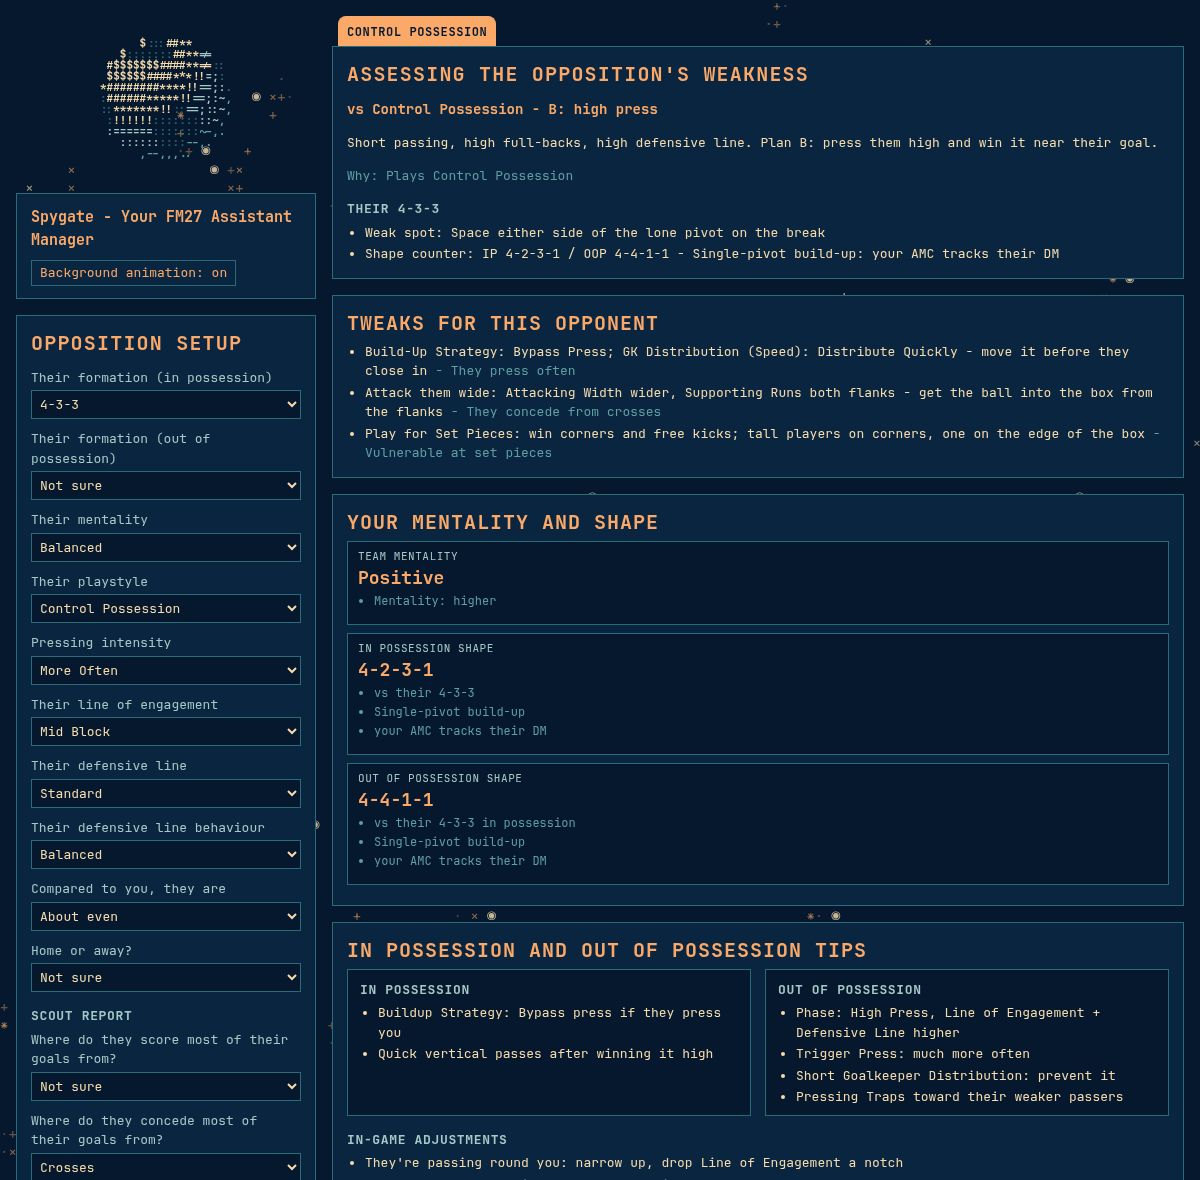
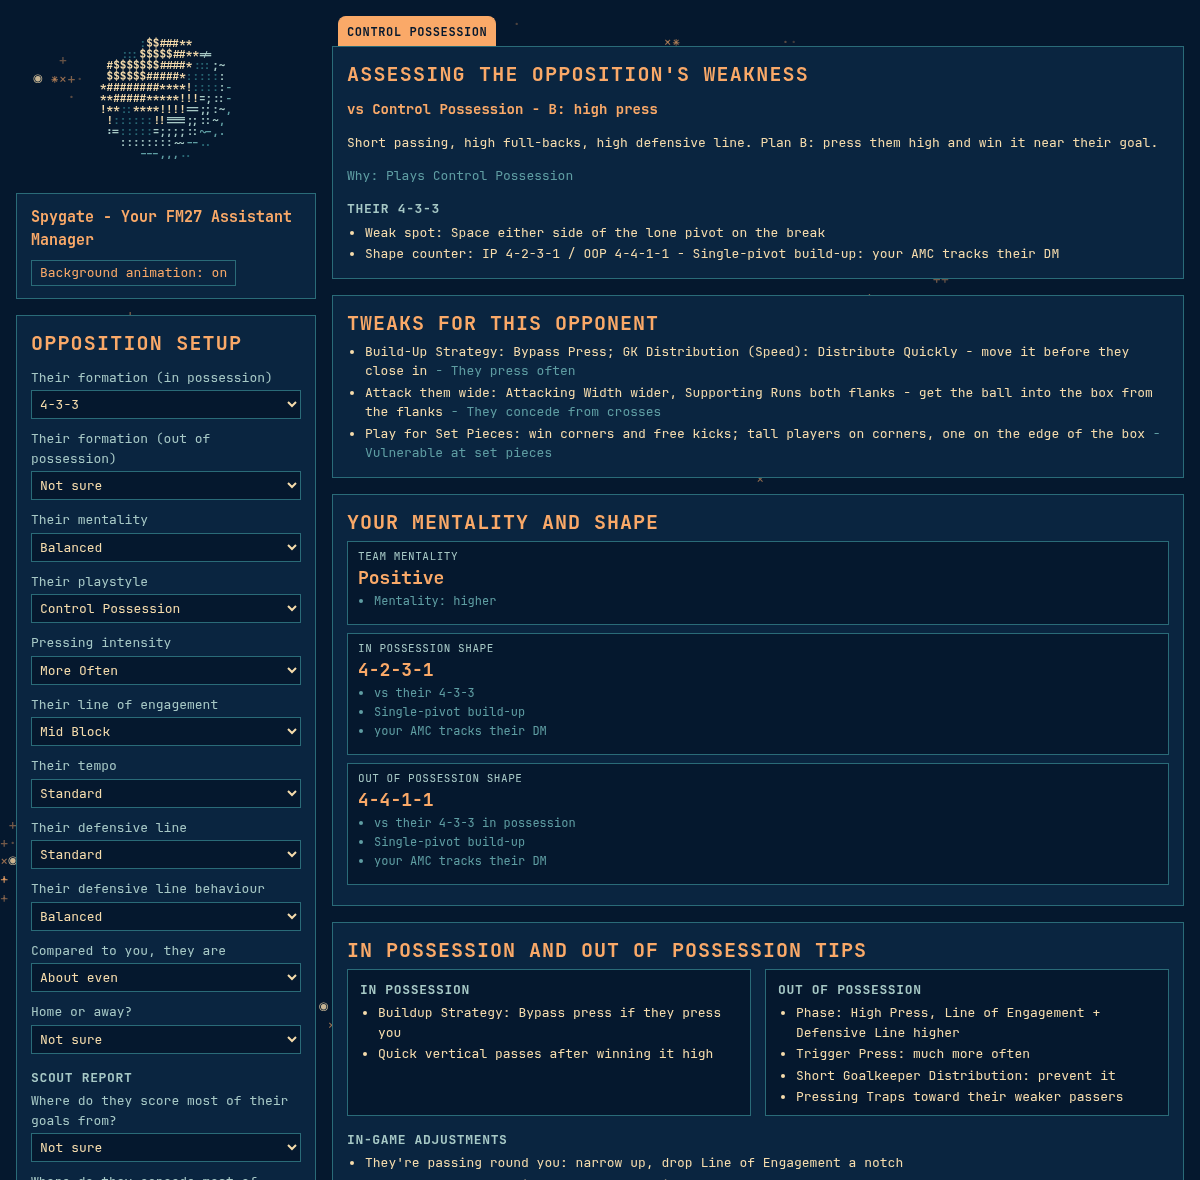
Tempo: the game's five options; Their tempo dropdown with tweaks from the staff feedback

diff --git a/index.html b/index.html
@@ -68,6 +68,7 @@ h3.big{font-size:16px;color:var(--accent);margin-top:0}
     <option value="bus">Park the Bus</option></select></label>
   <label>Pressing intensity<select name="trigger"><option value="">Not sure</option><option value="less">Less Often</option><option value="balanced">Balanced</option><option value="more">More Often</option><option value="muchMore">Much More Often</option></select></label>
   <label>Their line of engagement<select name="engage"><option value="low">Low Block</option><option value="mid" selected>Mid Block</option><option value="high">High Press</option></select></label>
+  <label>Their tempo<select name="tempo"><option value="muchLower">Much Lower</option><option value="lower">Lower</option><option value="standard" selected>Standard</option><option value="higher">Higher</option><option value="muchHigher">Much Higher</option></select></label>
   <label>Their defensive line<select name="line"><option value="muchLower">Much Lower</option><option value="lower">Lower</option><option value="standard" selected>Standard</option><option value="higher">Higher</option><option value="muchHigher">Much Higher</option></select></label>
   <label>Their defensive line behaviour<select name="lineBehaviour"><option value="stepUp">Step Up More</option><option value="balanced" selected>Balanced</option><option value="dropOff">Drop Off More</option></select></label>
   <label>Compared to you, they are<select name="strength"><option value="weaker">Weaker</option><option value="even" selected>About even</option><option value="stronger">Stronger</option></select></label>
@@ -189,7 +190,7 @@ const SHAPES={
 // Wrong label in your game? Fix it here; the test checks every plan setting still exists.
 const TI=[
   ['In possession','Passing Directness',['Much Shorter','Shorter','Balanced','More Direct','Much More Direct']],
-  ['In possession','Tempo',['Lower','Standard','Higher']],
+  ['In possession','Tempo',['Much Lower','Lower','Standard','Higher','Much Higher']],
   ['In possession','Time Wasting',['Less Often','Standard','More Often']],
   ['In possession','Attacking Transition',['Counter-Attack','Standard','Patient Build-Up'],true],
   ['In possession','Attacking Width',['Much Narrower','Narrower','Standard','Wider','Much Wider']],
@@ -290,6 +291,10 @@ const TWEAKS=[
   // other team control possession and its counters start further from goal.
   {when:o=>o.engage==='high',text:'Build-Up Strategy: Bypass Press - go over their press; beat it once and you attack an open pitch',why:'They engage with a High Press',own:true,set:{'Build-Up Strategy':'Bypass Press'}},
   {when:o=>o.engage==='low',text:'Attacking Width: Wider, Patience: Work Ball Into Box - they let you have the ball and their final third is compact; their counters start far from your goal',why:'They sit in a Low Block',own:true,set:{'Attacking Width':'Wider','Patience':'Work Ball Into Box'}},
+  // Their Tempo, from the game's staff feedback: lower = more control but more likely to dwell on the ball and gives the
+  // other team time to regroup; higher = less time to regroup but less control and more rushed bad passes.
+  {when:o=>o.tempo==='lower'||o.tempo==='muchLower',text:'Trigger Press: More Often - a slow tempo means they dwell on the ball; close them down before they settle',why:'They play a low tempo',own:true,set:{'Trigger Press':'More Often'}},
+  {when:o=>o.tempo==='higher'||o.tempo==='muchHigher',text:"Defensive Transition: Regroup - they attack before you're set, so get back into shape; their rushed passes go astray, so let them make the mistakes",why:'They play a high tempo',own:true,set:{'Defensive Transition':'Regroup'}},
   // Game staff feedback: Step Up More compacts the space but is vulnerable to a well-timed pass in behind;
   // Drop Off More is safer against balls in behind but concedes more space.
   {when:o=>o.lineBehaviour==='stepUp',text:'Pass Reception: Pass Into Space - the space is compact, but a well-timed pass in behind beats them; runs from deep, a striker on the last man gets caught offside',why:'Their line steps up',own:true,set:{'Pass Reception':'Pass Into Space'}},
@@ -401,6 +406,7 @@ if(form.style.selectedIndex<0)form.style.value='unknown';
 if(form.line.selectedIndex<0)form.line.value='standard';
 if(form.lineBehaviour.selectedIndex<0)form.lineBehaviour.value='balanced';
 if(form.engage.selectedIndex<0)form.engage.value='mid';
+if(form.tempo.selectedIndex<0)form.tempo.value='standard';
 const read=()=>Object.fromEntries([...form.querySelectorAll('select,input')].map(e=>[e.name,e.type==='checkbox'?e.checked:e.value]));
 const esc=s=>String(s??'').replace(/[&<>"']/g,c=>({'&':'&amp;','<':'&lt;','>':'&gt;','"':'&quot;',"'":'&#39;'}[c]));
 const li=(x,cls)=>`<li${cls?` class="${cls}"`:''}>${esc(x)}</li>`;

diff --git a/test/engine.test.js b/test/engine.test.js
@@ -161,3 +161,10 @@ test('their line of engagement', () => {
   assert.ok(!r({engage:'mid'}).tweaks.some(t=>/Block|High Press/.test(t.why)));
   for(const engage of ['low','mid','high'])checkSet(r({engage}).set);
 });
+
+test('their tempo', () => {
+  for(const tempo of ['lower','muchLower'])assert.equal(r({tempo}).set['Trigger Press'],'More Often');
+  for(const tempo of ['higher','muchHigher'])assert.equal(r({tempo}).set['Defensive Transition'],'Regroup');
+  assert.ok(!r({tempo:'standard'}).tweaks.some(t=>/tempo/.test(t.why)));
+  checkSet(r({tempo:'lower'}).set);checkSet(r({tempo:'higher'}).set);
+});
